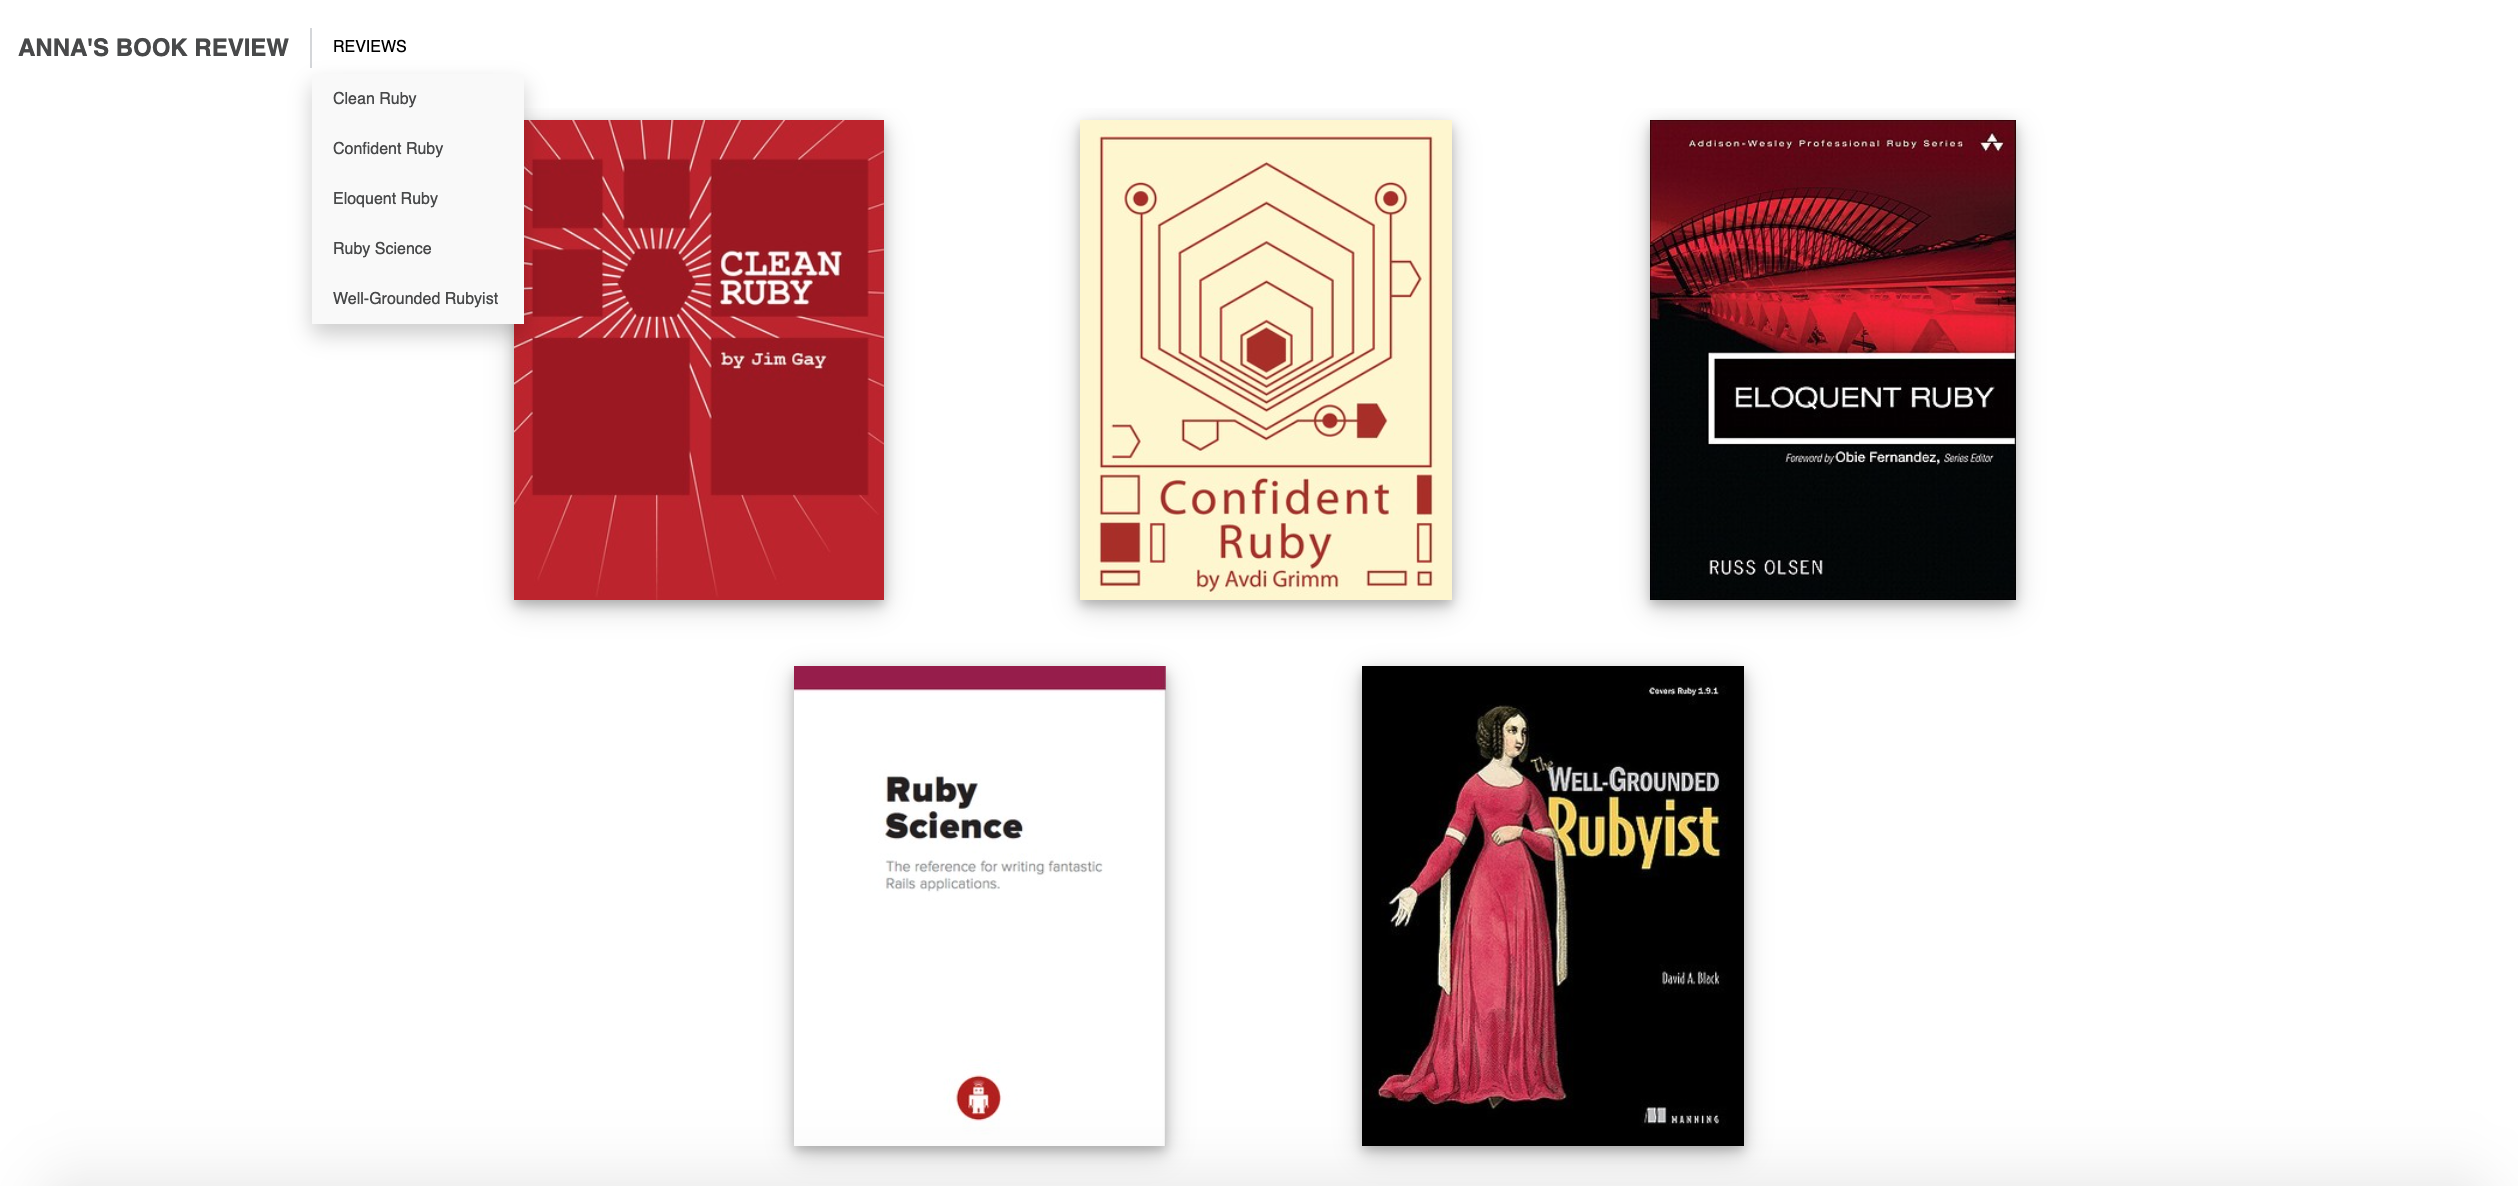
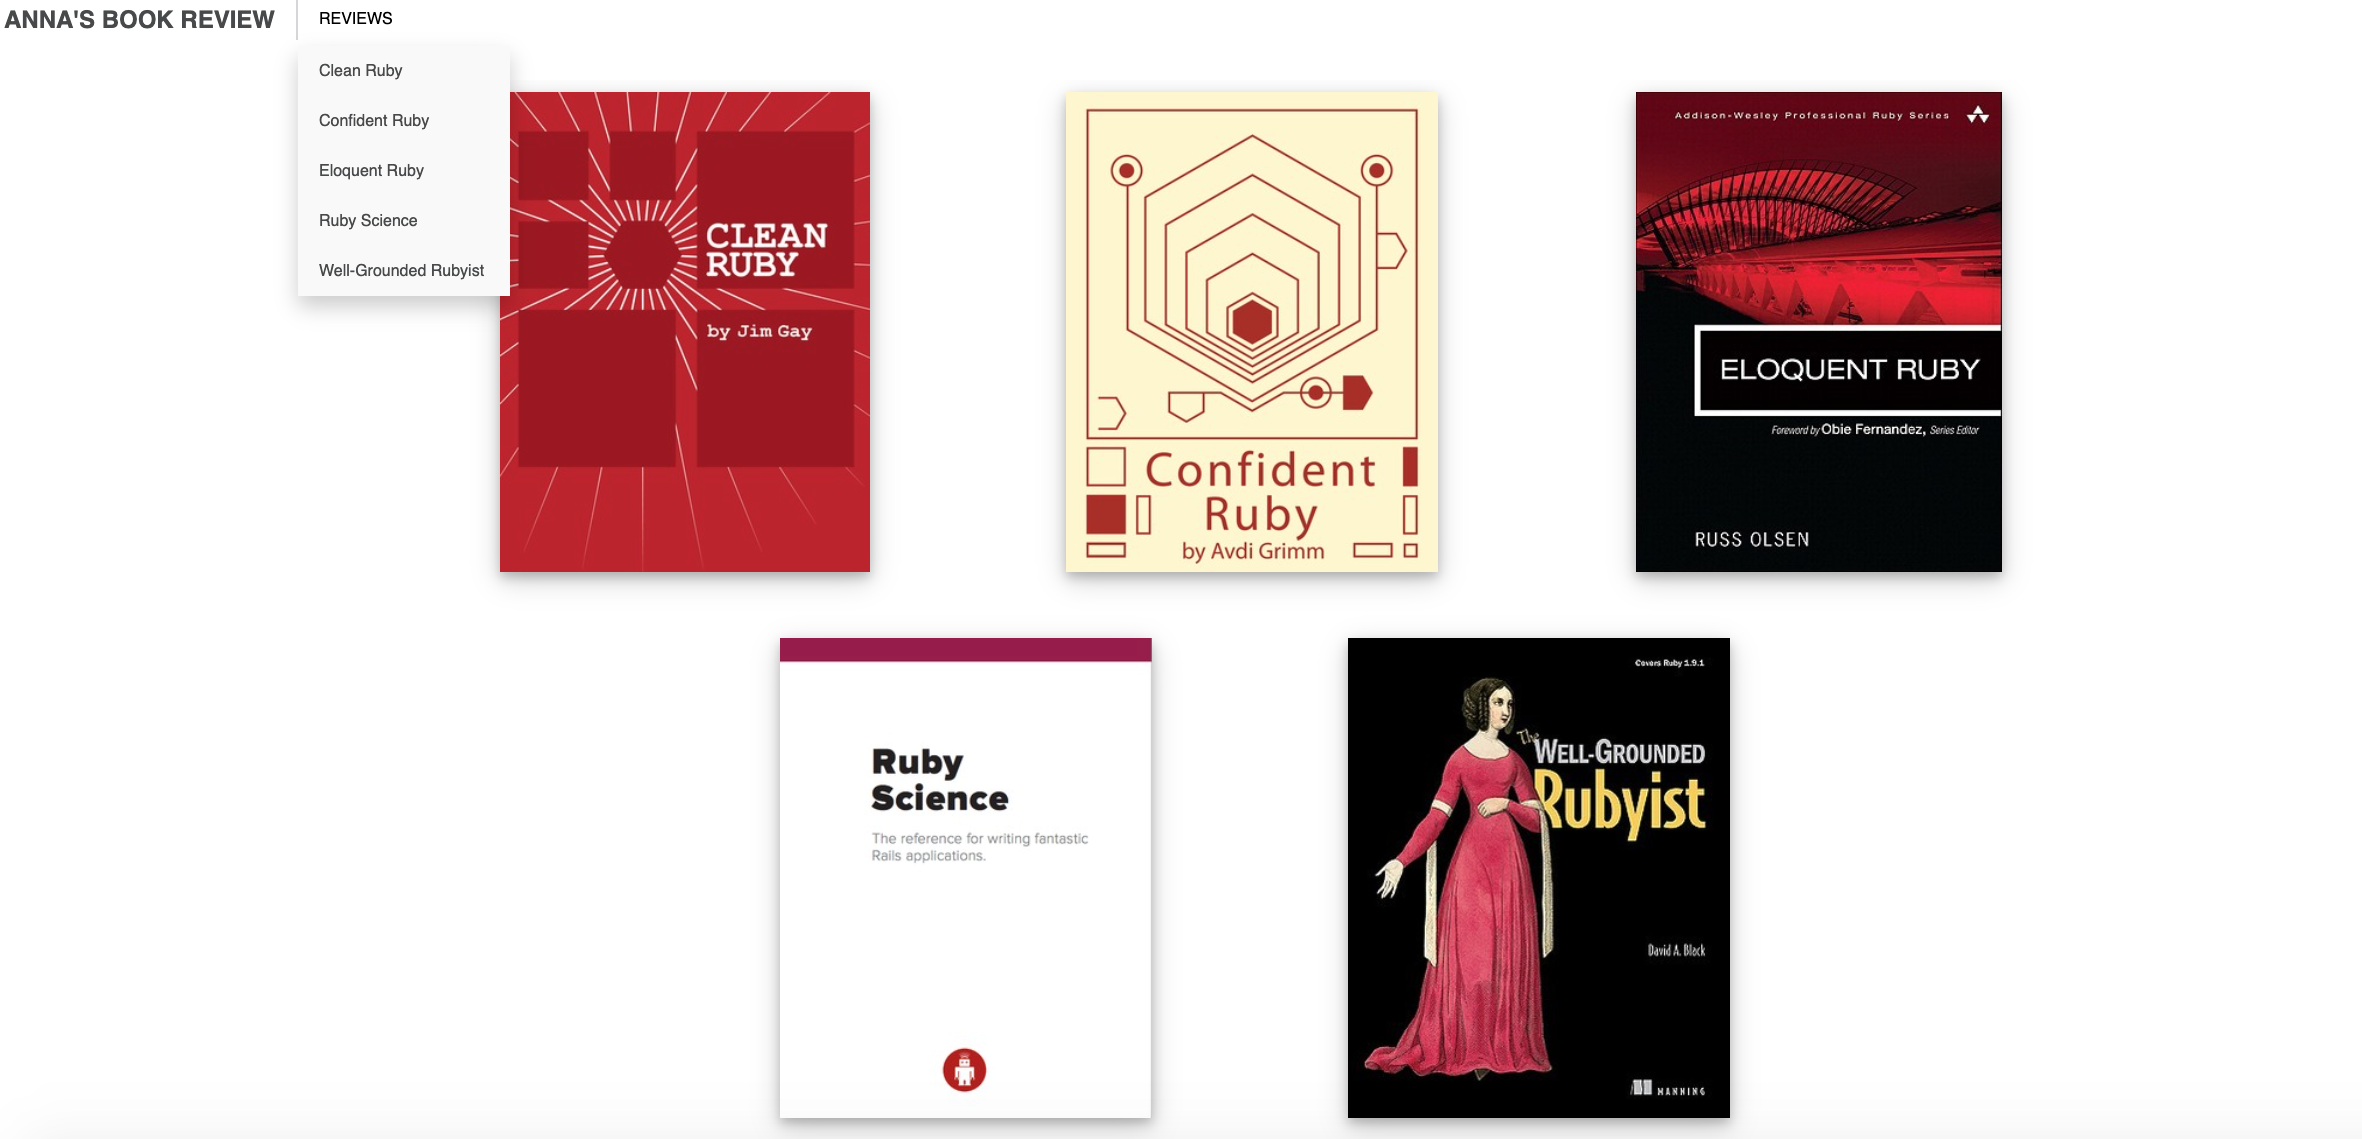
added a background image to portfolio page; completed adding the portfolio items

diff --git a/code-journal.html b/code-journal.html
@@ -5,48 +5,49 @@
         <title>Blog</title>
         <link href="styles/main-theme.css" rel="stylesheet">
         <link href="styles/nav.css" rel="stylesheet">
-        <!-- <link href="styles/blog.css" rel="stylesheet"> -->
         <link href="css/social-circles.min.css" rel="stylesheet">
     </head>
     <body>
-        <header>
-            <div class="page-name">
-                <p>Blog</p>
-            </div>
-            <nav>
-                <p><a href="index.html">home</a></p>
-                <p><a href="portfolio.html">portfolio</a></p>
-                <p><a href="about.html">about me</a></p>
-            </nav>
-        </header>
-        <div class="main-content">
-            <!-- <img class="not-home-img" src="images/anna_in_sf.jpg" alt="Selfie of Anna Kim in San Francisco">
-            <div class="content-right">
-                <h1>Hello, my name is <a>Anna</a>.</h1>
-                <p class="special-text">pronouns: she/her</p>
-                <br>
-                <br>
-                <p>I am a student <a class="special-text inline">full-stack web developer</a> attending <a id="ada-link" href="https://adadevelopersacademy.org/">Ada Developers Academy</a>.</p>
-                <div class="blurb">
-                    <p>Born and raised in New Jersey in a Korean household, I am first-gen and second oldest of five siblings. 
-                        What this means is that my career kickstarted with years of experience in babysitting and translating (for free).  
-                        I'm also fluent in Konglish - a mishmash of Korean and English.</p>
-                    <p>My paid career began in NYC in finance. After two years, I returned to Chicago to explore the world of tech @ Uber Freight.</p>
-                    <p>Thanks to my experiences there, I am happy to say that I'm now a full-time, work-in-progress developer.</p>
-                    <p>I'm always interested in sharing stories and learning from others, so if you would like, <a class="special-text inline">let's connect!</a></p>
+        <div class="body-container">
+            <header>
+                <div class="page-name">
+                    <p>Blog</p>
                 </div>
-                <hr>
-                <ul>
-                    <li><p class="special-text">education:</p> University of Chicago, BA Economics</li>
-                    <li><p class="special-text">skills:</p> Ruby, HTML, CSS, SQL</li>
-                    <li><p class="special-text">contact:</p> anna.kim93@gmail.com</li>
-                </ul>
-            </div> -->
+                <nav>
+                    <p><a href="index.html">home</a></p>
+                    <p><a href="portfolio.html">portfolio</a></p>
+                    <p><a href="about.html">about me</a></p>
+                </nav>
+            </header>
+            <div class="main-content">
+                <!-- <img class="not-home-img" src="images/anna_in_sf.jpg" alt="Selfie of Anna Kim in San Francisco">
+                <div class="content-right">
+                    <h1>Hello, my name is <a>Anna</a>.</h1>
+                    <p class="special-text">pronouns: she/her</p>
+                    <br>
+                    <br>
+                    <p>I am a student <a class="special-text inline">full-stack web developer</a> attending <a id="ada-link" href="https://adadevelopersacademy.org/">Ada Developers Academy</a>.</p>
+                    <div class="blurb">
+                        <p>Born and raised in New Jersey in a Korean household, I am first-gen and second oldest of five siblings. 
+                            What this means is that my career kickstarted with years of experience in babysitting and translating (for free).  
+                            I'm also fluent in Konglish - a mishmash of Korean and English.</p>
+                        <p>My paid career began in NYC in finance. After two years, I returned to Chicago to explore the world of tech @ Uber Freight.</p>
+                        <p>Thanks to my experiences there, I am happy to say that I'm now a full-time, work-in-progress developer.</p>
+                        <p>I'm always interested in sharing stories and learning from others, so if you would like, <a class="special-text inline">let's connect!</a></p>
+                    </div>
+                    <hr>
+                    <ul>
+                        <li><p class="special-text">education:</p> University of Chicago, BA Economics</li>
+                        <li><p class="special-text">skills:</p> Ruby, HTML, CSS, SQL</li>
+                        <li><p class="special-text">contact:</p> anna.kim93@gmail.com</li>
+                    </ul>
+                </div> -->
+            </div>
+            <footer>
+                <a class="icon-github social-button" href="https://github.com/annakim93"></a>
+                <a class="icon-linkedin social-button" href="https://www.linkedin.com/in/anna-kim/"></a>
+                <a class="icon-instagram social-button" href="https://www.instagram.com/kimannaa/"></a>
+            </footer>
         </div>
-        <footer>
-            <a class="icon-github social-button" href="https://github.com/annakim93"></a>
-            <a class="icon-linkedin social-button" href="https://www.linkedin.com/in/anna-kim/"></a>
-            <a class="icon-instagram social-button" href="https://www.instagram.com/kimannaa/"></a>
-        </footer>
     </body>
 </html>

diff --git a/portfolio.html b/portfolio.html
@@ -21,6 +21,7 @@
                 </nav>
             </header>
             <div class="main-content-adj">
+                <!-- <img class="side-img" src="images/mountain_road.jpg" alt="Tunnel into mountain on a cloudy day"> -->
                 <div class="proj" id="proj1">
                     <img src="images/book_review_site_2.png" alt="Book review site">
                     <div class="hover-card">
@@ -33,13 +34,36 @@
                     </div>
                 </div>
                 <div class="proj" id="proj2">
-
+                    <img src="images/oo_ride_share.png" alt="Object-oriented rideshare project">
+                    <div class="hover-card">
+                        <div class="proj-title">object-oriented rideshare project</div>
+                        <ul>
+                            <li>Ruby</li>
+                            <li>OOP</li>
+                        </ul>
+                        <div><a href="https://github.com/annakim93/oo-ride-share" target="_blank">github</a></div>
+                    </div>
                 </div>
                 <div class="proj" id="proj3">
-
+                    <img src="images/adagrams.png" alt="Anagrams project">
+                    <div class="hover-card">
+                        <div class="proj-title">adagrams</div>
+                        <ul>
+                            <li>Ruby</li>
+                        </ul>
+                        <div><a href="https://github.com/annakim93/adagrams" target="_blank">github</a></div>
+                    </div>
                 </div>
                 <div class="proj" id="proj4">
-
+                    <img src="images/slack_api.png" alt="Slack API">
+                    <div class="hover-card">
+                        <div class="proj-title">slack api</div>
+                        <ul>
+                            <li>Ruby</li>
+                            <li>API</li>
+                        </ul>
+                        <div><a href="https://github.com/idago123/slack-cli" target="_blank">github</a></div>
+                    </div>
                 </div>
             </div>
             <footer>

diff --git a/styles/portfolio.css b/styles/portfolio.css
@@ -1,3 +1,12 @@
+body {
+  background-image: url("../images/mountain_road_edit.png");
+  /* background-color: rgba(255,255,255,0.6); */
+  /* background-blend-mode: overlay; */
+  background-repeat: no-repeat;
+  background-size: contain;
+}
+
+
 .main-content-adj {
   grid-row: 2;
   width: 100%;
@@ -6,33 +15,27 @@
   justify-content: center;
   align-items: center;
   grid-template-rows: 14rem 14rem;
-  grid-template-columns: 50% 50%;
+  grid-template-columns: 40% 30% 30%;
 }
 
 .main-content-adj #proj1 {
   grid-row: 1;
-  grid-column: 1;
-  /* display: flex;
-  justify-content: center;
-  align-items: center;
-  position: relative;
-  height: 100%;
-  width: 100%; */
+  grid-column: 2;
 }
 
 .main-content-adj #proj2 {
   grid-row: 1;
-  grid-column: 2;
+  grid-column: 3;
 }
 
 .main-content-adj #proj3 {
   grid-row: 2;
-  grid-column: 1;
+  grid-column: 2;
 }
 
 .main-content-adj #proj4 {
   grid-row: 2;
-  grid-column: 2;
+  grid-column: 3;
 }
 
 .main-content-adj .proj {
@@ -50,7 +53,7 @@
   top: 50%;
   left: 50%;
   height: 100%;
-  width: 50%;
+  width: 80%;
   transform: translate(-50%, -50%);
   -ms-transform: translate(-50%, -50%);
   background-color: #FEFAE0;
@@ -78,6 +81,30 @@ img {
   opacity: 0;
 }
 
+#proj2:hover .hover-card {
+  opacity: 1;
+}
+
+#proj2:hover img {
+  opacity: 0;
+}
+
+#proj3:hover .hover-card {
+  opacity: 1;
+}
+
+#proj3:hover img {
+  opacity: 0;
+}
+
+#proj4:hover .hover-card {
+  opacity: 1;
+}
+
+#proj4:hover img {
+  opacity: 0;
+}
+
 .proj-title {
   font-size: 16px;
   font-weight: 600;
@@ -93,6 +120,7 @@ ul {
 
 li {
   float: left;
+  margin-left: 10px;
   margin-right: 10px;
   font-size: 12px;
   color: #BC6C25;
@@ -109,3 +137,12 @@ li {
   color: #DDA15E;
   font-style: italic;
 }
+
+/* .side-img {
+  grid-row: 1 / span 2;
+  grid-column: 1;
+  justify-self: center;
+  height: 100%;
+  width: auto;
+  opacity: 85%;
+} */

diff --git a/styles/main-theme.css b/styles/main-theme.css
@@ -22,7 +22,7 @@ body {
 header {
   grid-row: 1;
   position: relative;
-  background-color: white;
+  /* background-color: white; */
   display: flex;
   align-items: center;
   justify-content: space-between;
